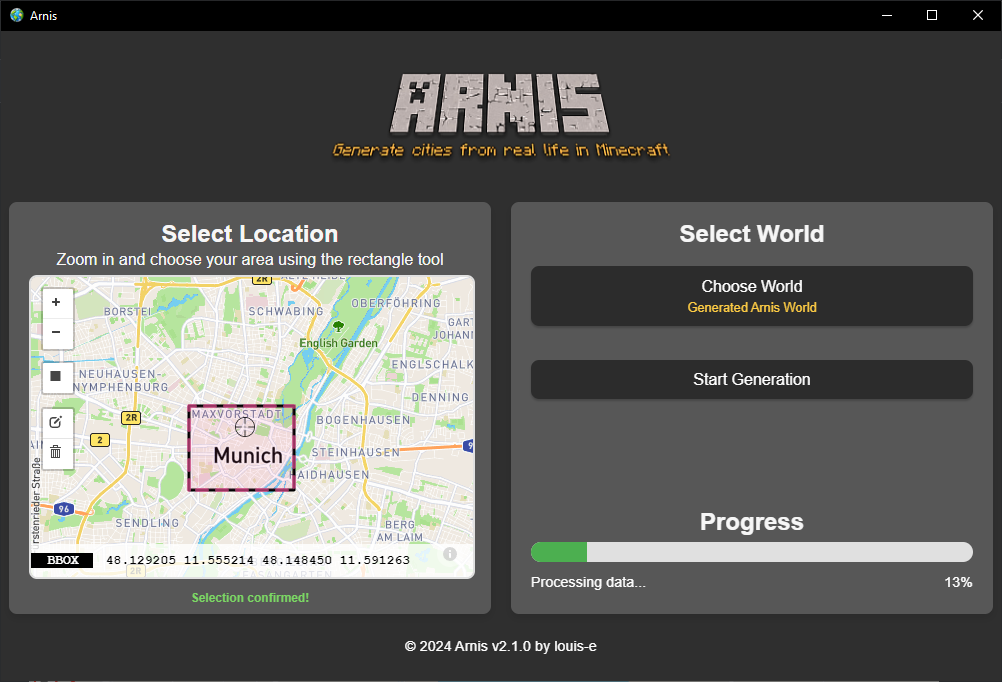
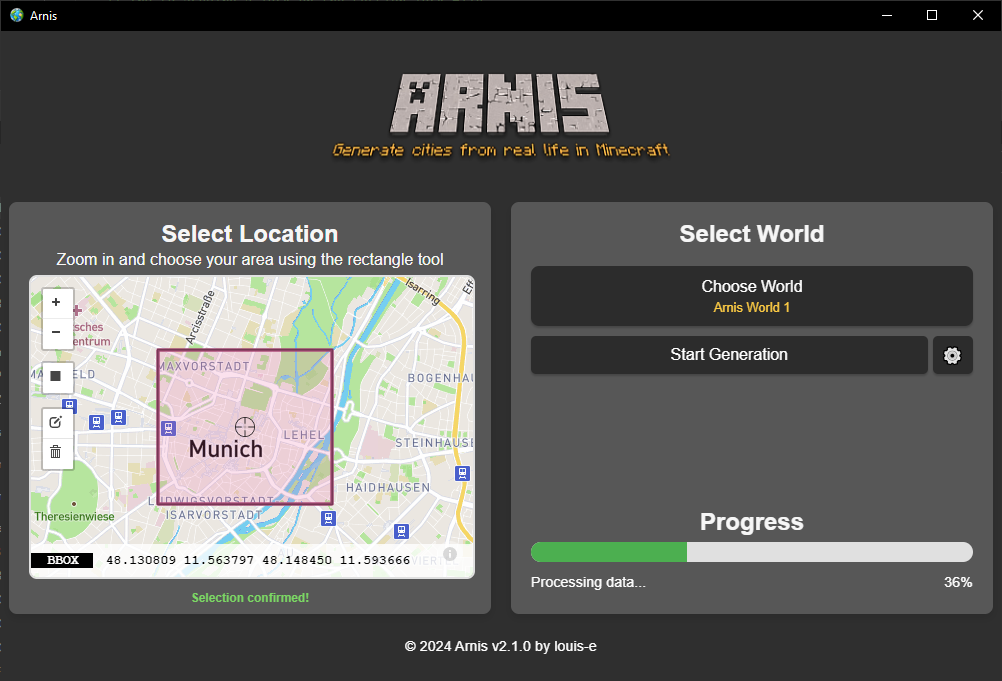
fmt (clippy): Removed unneeded return statement required by clippy

diff --git a/src/main.rs b/src/main.rs
@@ -176,7 +176,7 @@ fn gui_select_world(generate_new: bool) -> Result<String, String> {
 
                 // Create the new world structure
                 create_new_world(&new_world_path, &unique_name)?;
-                return Ok(new_world_path.display().to_string());
+                Ok(new_world_path.display().to_string())
             } else {
                 Err("Minecraft directory not found.".to_string())
             }